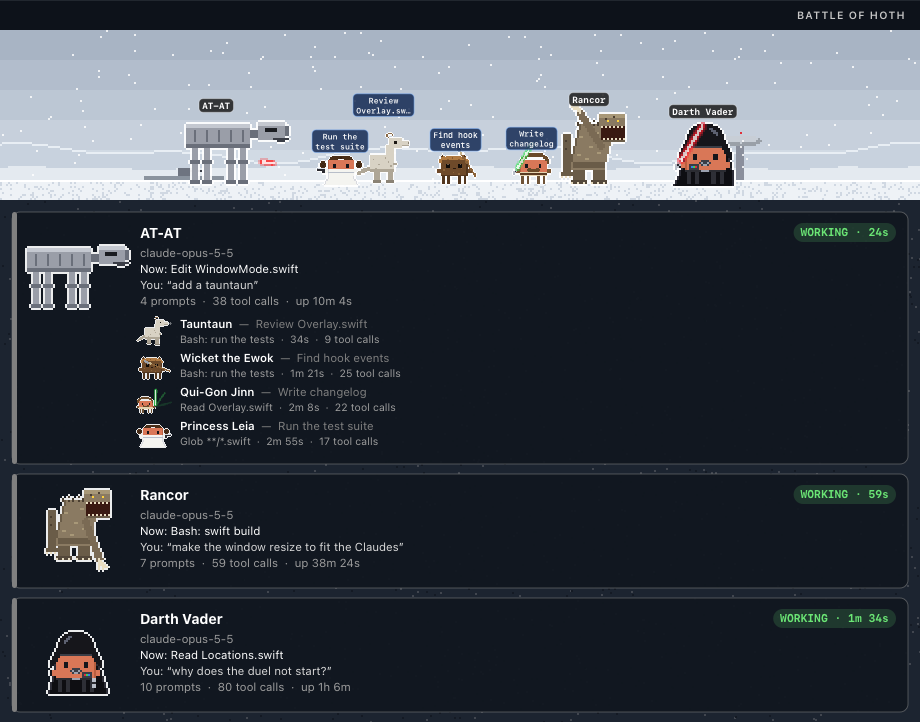
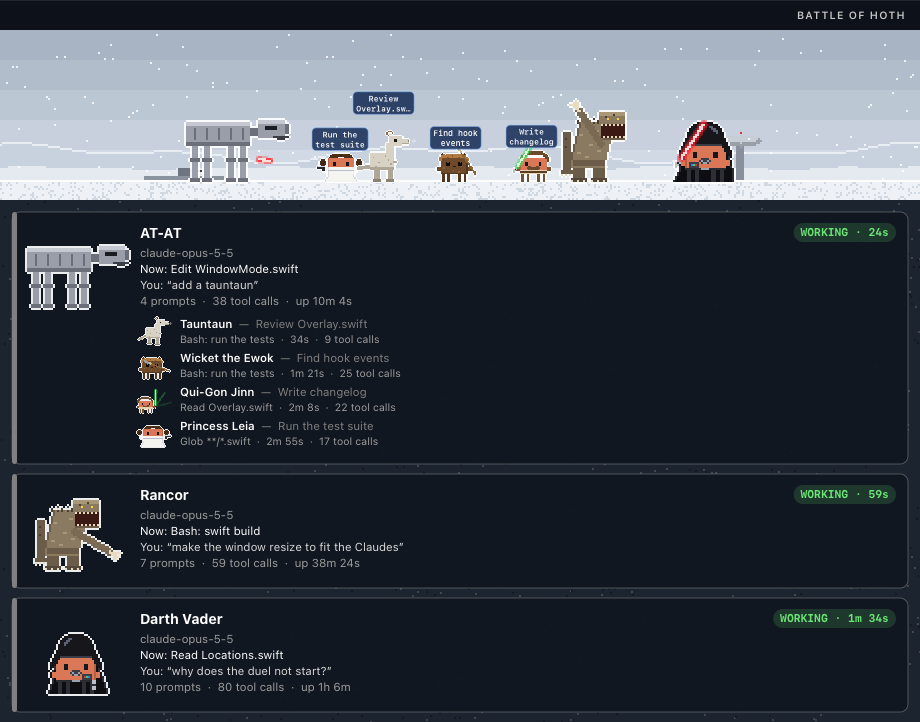
docs: README images for Han's Falcon exit and hover cards
Add docs/falcon.png and docs/hover.png, re-shoot the window screenshots with the new label default, and describe per-mode labels and optional auto-height.

diff --git a/Tools/RenderDocs/main.swift b/Tools/RenderDocs/main.swift
@@ -73,6 +73,8 @@ save(roster, "roster.png")
 
 // MARK: Locations
 
+Cantina.maxReboTonight = false      // the sheet shows the Modal Nodes (the Max Rebo Band is in Jabba's palace)
+
 let lw = 250, lh = 70, lscale: CGFloat = 2, lcols = 3
 let locs = Location.allCases
 let lRows = (locs.count + lcols - 1) / lcols

diff --git a/README.md b/README.md
@@ -66,6 +66,12 @@ Blasters are drawn from the film props — Han's DL-44, Leia's Defender, the Sto
 
 Claudes fight Claudes, agents fight agents, and leftovers pair up or cheer. R2-D2, C-3PO and the tauntaun stay out of it.
 
+And when Han Solo's agent is done, he doesn't just fade away — the Millennium Falcon comes to pick him up:
+
+<p align="center">
+  <img src="docs/falcon.png" alt="The Falcon swoops in, lands beside Han, he walks up the ramp, and it flies away" width="900">
+</p>
+
 ## Window mode
 
 Prefer a window? **Show in Window** puts the whole crew in a scene and gives every Claude a card: what it's doing *right now*, your last prompt, its last reply, how long it's been at it, and every agent's task and current tool call.
@@ -86,9 +92,15 @@ The scene is set **where the first Claude belongs** — the Death Star for Vader
   <img src="docs/locations.png" alt="All 22 locations" width="760">
 </p>
 
-The window sizes itself to the number of Claudes, has a themed title bar, can stay on top, and can hide its Dock icon.
+The window sizes itself to the number of Claudes (or keep your own height), has a themed title bar, can stay on top, and can hide its Dock icon. Project names float over the Claudes on the desktop; in the window the cards carry them instead — each mode remembers your choice.
 
 ## The little things
+
+Hover over anyone for the details — what that Claude is doing right now, your last prompt, its agents:
+
+<p align="center">
+  <img src="docs/hover.png" alt="Hover card over Darth Vader" width="640">
+</p>
 
 | You see | It means |
 |---|---|

diff --git a/CHANGELOG.md b/CHANGELOG.md
@@ -1,5 +1,10 @@
 # Changelog
 
+## 2.17.4 — 2026-10-10
+
+### Changed
+- README: new images of Han's Millennium Falcon departure (a four-step strip) and a desktop hover card. The window screenshots are re-shot without project names over the Claudes (the new window default), and the text explains per-mode labels and the optional fixed window height. The locations sheet always shows the Modal Nodes in the cantina.
+
 ## 2.17.3 — 2026-10-10
 
 ### Changed
